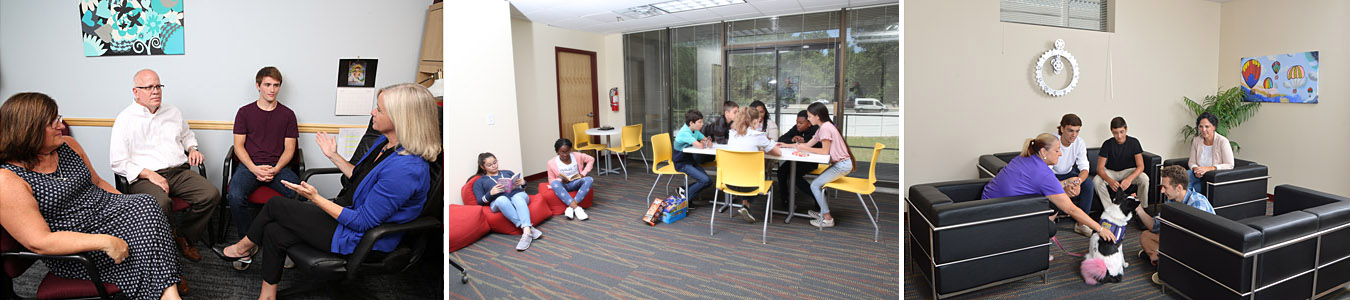
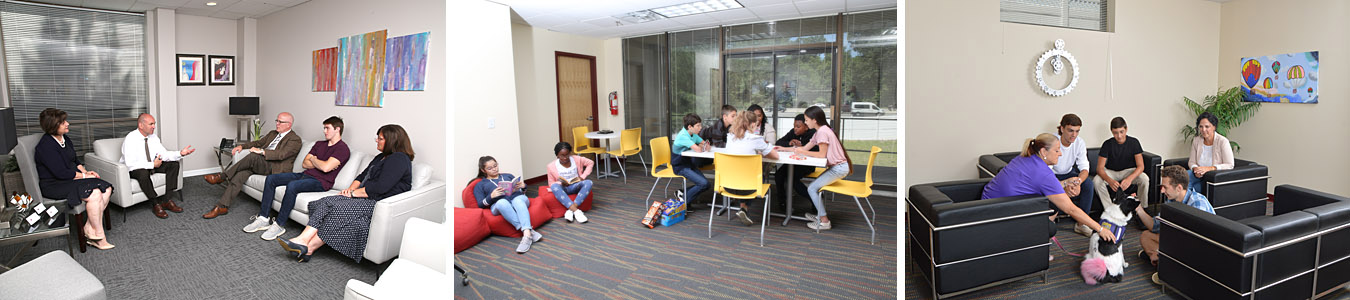
testing new layout for Experience page

diff --git a/style.css b/style.css
@@ -9,6 +9,10 @@ Text Domain: educator
 Template: educator
 */
 
+.cds-hide {
+  display: none !important;
+}
+
 blockquote p:before {
   content: "";
   display: none;

diff --git a/sidebar.php b/sidebar.php
@@ -121,14 +121,10 @@
       <blockquote class="wp-block-quote cds-parent-quote"><p>Though I didn't know it at the time, CDS meant everything to me. Ultimately, I was the one who made the choice to turn my life around and go down a new path.<br /><i>Student, Fort Lee, NJ</i></p></blockquote>
       <blockquote class="wp-block-quote cds-parent-quote"><p>I want to personally thank you for all of your help with this very difficult family. Their son is in great need of treatment and I know both parents are comforted by the high level of care that he will receive at Cornerstone. For them I know that they see the 24/7 hot line as a godsend: Mom said that it's the first time that she can really sleep at night.<br /><i>Case Manager, Essex County, NJ</i></p></blockquote>
       <blockquote class="wp-block-quote cds-parent-quote"><p>Cornerstone meant a lot to me. It taught me how to cope. It has truly made me the person I am today, and I couldn't be more grateful.<br /><i>Student, Union, NJ</i></p></blockquote>
-    <?php } else if ($current_page=="EXPERIENCE") { ?>
-      <blockquote class="wp-block-quote cds-parent-quote"><p><br /><i></i></p></blockquote>
-      <blockquote class="wp-block-quote cds-parent-quote"><p><br /><i></i></p></blockquote>
-      <blockquote class="wp-block-quote cds-parent-quote"><p><br /><i></i></p></blockquote>
     <?php } else if ($current_page=="WHO") { ?>
-      <blockquote class="wp-block-quote cds-parent-quote"><p><br /><i></i></p></blockquote>
-      <blockquote class="wp-block-quote cds-parent-quote"><p><br /><i></i></p></blockquote>
-      <blockquote class="wp-block-quote cds-parent-quote"><p><br /><i></i></p></blockquote>
+      <blockquote class="wp-block-quote cds-parent-quote"><p>A huge thank you to all of you for all your hard work helping my son get better and transition to High School. We feel extraordinarily fortunate and truly know that Cornerstone helped him to survive and move on to be the best he can be (Of course the journey will continue!). We appreciate all of the concern, expertise and patience you have shown these last 18+ months. All best wishes to you.<br /><i>Parent, Cranford, NJ</i></p></blockquote>
+      <blockquote class="wp-block-quote cds-parent-quote"><p>The staff, the teachers and the administrative team are not only caring individuals but they have high standards of excellence for the students, as well.<br /><i>Parent, Springfield, NJ</i></p></blockquote>
+      <blockquote class="wp-block-quote cds-parent-quote"><p>Because of the open and honest relationship between the staff and us, they were able to help us navigate through this very tough passage our family was going through.<br /><i>Parent, Boonton, NJ</i></p></blockquote>
     <?php } ?>
   </div>
 </aside>

diff --git a/header.php b/header.php
@@ -54,6 +54,13 @@
       $picstrip_spacer_class = "lpg-picstrip-spacer";
       $header_img_narrow = "/wp-content/themes/educator-child/images/admissions1200.jpg";
       $header_img_wide = "/wp-content/themes/educator-child/images/admissions1350.jpg";
+    } else if ($current_path=="cornerstone-experience") { 
+      $current_page = "EXPERIENCE";
+      $include_picstrip = "YES";
+      $include_picstrip2 = "YES";
+      $picstrip_spacer_class = "lpg-picstrip-spacer";
+      $header_img_wide = "/wp-content/themes/educator-child/images/experienceA1350.jpg";
+      $header_img2_wide = "/wp-content/themes/educator-child/images/experienceB1350.jpg";
     } else if ($current_path=="parents-faq") { 
       $current_page = "FAQ";
       $include_picstrip = "YES";
@@ -110,4 +117,7 @@
               <div class="edgt-content-inner">
                 <?php if ($include_picstrip=="YES") { ?>
                   <div class="cds-picstrip"><div class="cds-narrowview"><img src="<?php echo $header_img_narrow ?>" /></div><div class="cds-wideview"><img src="<?php echo $header_img_wide ?>" /></div></div>
+                <?php } ?>
+                <?php if ($include_picstrip2=="YES") { ?>
+                  <div class="cds-picstrip"><div class="cds-wideview"><img src="<?php echo $header_img2_wide ?>" /></div></div>
                 <?php } ?>
